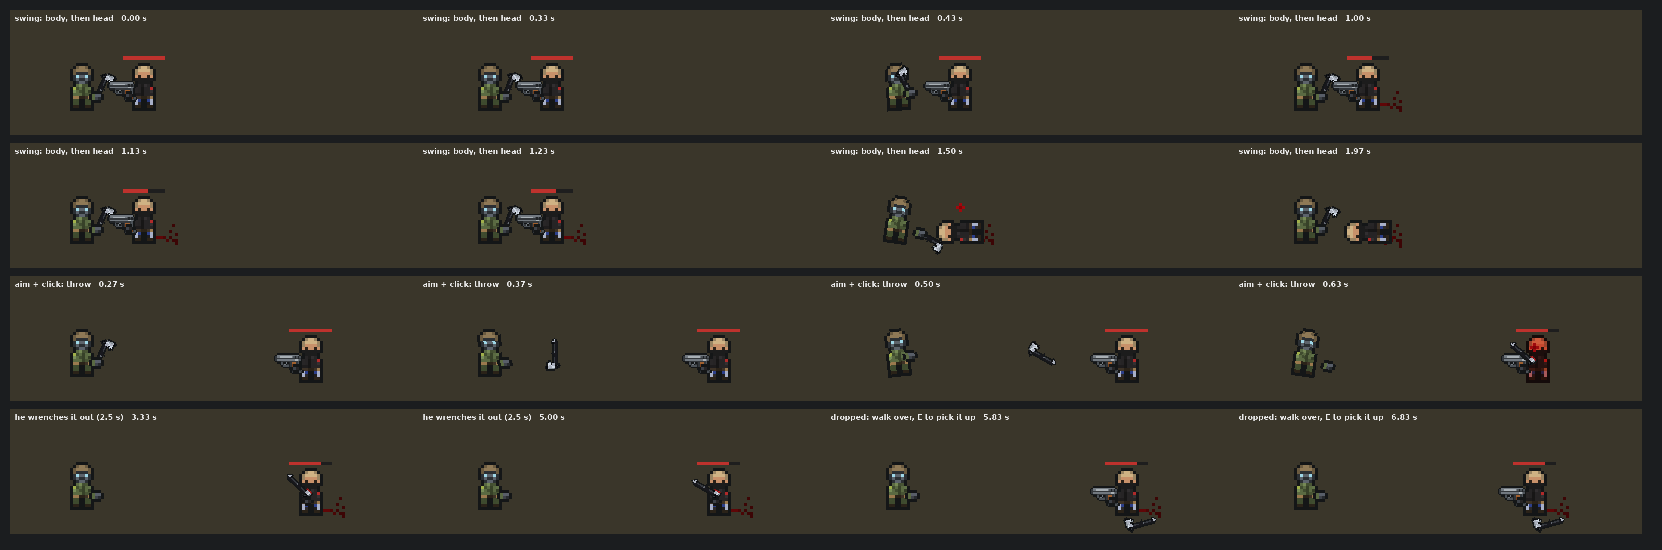
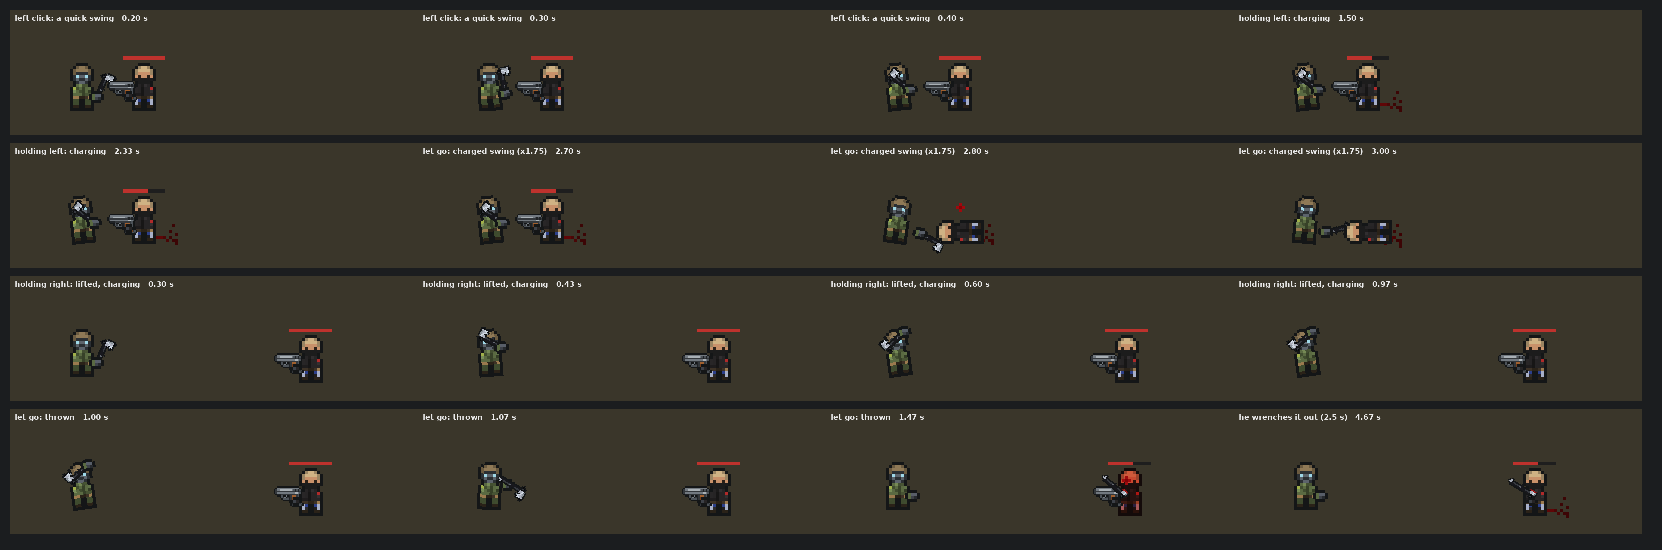
RT 7e: charged melee swings, throws lifted over the head and charged; melee aims at the body; no tunnelling throws
Claude-Session: https://claude.ai/code/session_017RM7tWVFFchFrbQYy4G9ho

diff --git a/Assets/Scripts/GameCore/Melee.cs b/Assets/Scripts/GameCore/Melee.cs
@@ -52,12 +52,22 @@ namespace GameCore
         public static readonly List<Lodged> InCover = new List<Lodged>();
         public static readonly List<Stuck> InBodies = new List<Stuck>();
         public static readonly List<Lying> OnFloor = new List<Lying>();
-        static readonly Dictionary<Player, (float at, Weapon w, float dx, float dy, float h)> Winding = new Dictionary<Player, (float, Weapon, float, float, float)>();
+        static readonly Dictionary<Player, (float at, Weapon w, float dx, float dy, float h, float power)> Winding = new Dictionary<Player, (float, Weapon, float, float, float, float)>();
+
+        // RT 7e (Yan: "left click swings it, holding left click charges the swing for higher damage and can be held indefinitely,
+        // right click 'aims' the throw and starts charging it, letting go throws it"; and a throw wind-up "like lifting it over the
+        // player's head"). Per combatant: when each button went down, when the last swing started (for its pose), when it threw.
+        public class Charge { public float SwingFrom = -1f, ThrowFrom = -1f, SwungAt = -99f, ThrewAt = -99f; }
+        static readonly Dictionary<ICombatant, Charge> Charges = new Dictionary<ICombatant, Charge>();
+        public static Charge ChargeOf(ICombatant u) { if (!Charges.TryGetValue(u, out var c)) Charges[u] = c = new Charge(); return c; }
+        public const float FullSwingCharge = 1f, MaxSwingBonus = 0.75f;   // held a second past the wind-up: x1.75 damage
+        public const float FullThrowCharge = 0.6f, MinThrowHold = 0.2f;  // a throw charged 0.6 s flies full speed and range
+        public const float ThrowWhip = 0.06f;                              // it leaves the hand this far into the whip forward
         static readonly Dictionary<ICombatant, float> NextSwing = new Dictionary<ICombatant, float>();
         // RT 7c: a swing lands at the chop, after the wind-up (HeldPoseMath.Chop), not on the click
-        static readonly List<(float at, ICombatant by, Weapon w, float dx, float dy, float h)> Pending = new List<(float, ICombatant, Weapon, float, float, float)>();
+        static readonly List<(float at, ICombatant by, Weapon w, float dx, float dy, float h, float mult)> Pending = new List<(float, ICombatant, Weapon, float, float, float, float)>();
         public static float HitDelay => HeldPoseMath.WindUp + HeldPoseMath.ChopTime;
-        public static void Reset() { Air.Clear(); InCover.Clear(); InBodies.Clear(); OnFloor.Clear(); Winding.Clear(); NextSwing.Clear(); Pending.Clear(); }
+        public static void Reset() { Air.Clear(); InCover.Clear(); InBodies.Clear(); OnFloor.Clear(); Winding.Clear(); NextSwing.Clear(); Pending.Clear(); Charges.Clear(); }
 
         public static float Now = -1f;                             // the harness sets it; the game uses Time.time
         static float T => Now >= 0f ? Now : Time.time;
@@ -67,32 +77,80 @@ namespace GameCore
 
         // ---------------- the player ----------------
 
-        /// <summary>Click with a melee weapon: aiming throws it, otherwise it swings. at = the crosshair (tile space).</summary>
+        /// <summary>RT 7e: the mouse buttons with a melee weapon, every frame. Left: press winds up, release swings (held past the
+        /// wind-up it charges, up to x1.75 damage). Right: press lifts it over your head and charges the throw, release throws it
+        /// (let go before MinThrowHold - or a two-handed weapon's wind-up - and you just lower it). at = the crosshair, tile space.</summary>
+        public static void PlayerInput(Player p, Weapon w, bool left, bool right, (float x, float y)? at)
+        {
+            var c = ChargeOf(p); float now = T;
+            if (Winding.ContainsKey(p)) return;                                           // mid-throw
+            if (left && c.SwingFrom < 0f && c.ThrowFrom < 0f && !(NextSwing.TryGetValue(p, out var ns) && now < ns)) c.SwingFrom = now;
+            if (!left && c.SwingFrom >= 0f)
+            {
+                float held = now - c.SwingFrom; c.SwingFrom = -1f;
+                float wind = Mathf.Min(held, HeldPoseMath.WindUp);
+                float charge = Mathf.Clamp01((held - HeldPoseMath.WindUp) / FullSwingCharge);
+                c.SwungAt = now - wind;                                                   // the pose carries on from where the wind-up is
+                if (at.HasValue) Release(p, w, at.Value, HeldPoseMath.WindUp - wind + HeldPoseMath.ChopTime, 1f + MaxSwingBonus * charge);
+            }
+            if (right && c.ThrowFrom < 0f && c.SwingFrom < 0f) c.ThrowFrom = now;
+            if (!right && c.ThrowFrom >= 0f)
+            {
+                float held = now - c.ThrowFrom; c.ThrowFrom = -1f;
+                if (held < Mathf.Max(MinThrowHold, For(w).WindUp) || !at.HasValue) return;  // not wound up: lowered, no throw
+                var (dx, dy, h) = Aim(p, at.Value);
+                if (dx == 0f && dy == 0f) return;
+                c.ThrewAt = now;
+                Winding[p] = (now + ThrowWhip, w, dx, dy, h, Mathf.Clamp01(held / FullThrowCharge));
+            }
+        }
+
+        static (float dx, float dy, float h) Aim(ICombatant by, (float x, float y) at)
+        {
+            var (px, py) = Ballistics.Pos(by);
+            var over = Rt.UnitUnder(at.x, at.y);
+            var (tx, ty) = over != null ? Ballistics.Pos(over) : at;                       // over a body: at its footprint, as guns aim
+            float dx = tx - px, dy = ty - py, len = Mathf.Sqrt(dx * dx + dy * dy);
+            if (len < 0.05f) return (0f, 0f, 0f);
+            return (dx / len, dy / len, over != null ? Ballistics.AimHeight(over, at.y) : ThrowHeight);
+        }
+
+        /// <summary>The swing leaves the wind-up: the hit lands `delay` s later (at the chop), `mult` x damage.</summary>
+        static void Release(Player p, Weapon w, (float x, float y) at, float delay, float mult)
+        {
+            var (dx, dy, h) = Aim(p, at);
+            if (dx == 0f && dy == 0f) return;
+            float now = T;
+            NextSwing[p] = now + delay + HeldPoseMath.Follow + HeldPoseMath.Recover;
+            var anim = CombatFx.Push("melee", p, null, w); anim.Now = true;                  // the whoosh
+            anim.ToX = p.X + Mathf.RoundToInt(dx * 2f); anim.ToY = p.Y + Mathf.RoundToInt(dy * 2f);
+            Pending.Add((now + delay, p, w, dx, dy, h, mult));
+            if (mult > 1.05f) GameLog.Write($"A charged swing (x{mult:0.00}).");
+        }
+
+        /// <summary>RT 7a (kept for tests and NPCs): click with a melee weapon - aiming throws it, otherwise it swings.</summary>
         public static void PlayerAttack(Player p, Weapon w, (float x, float y) at, bool aiming)
         {
             var st = For(w);
             float now = T;
             if (Winding.ContainsKey(p) || NextSwing.TryGetValue(p, out var t) && now < t) return;
-            var (px, py) = Ballistics.Pos(p);
-            float dx = at.x - px, dy = at.y - py, len = Mathf.Sqrt(dx * dx + dy * dy);
-            if (len < 0.05f) return;
-            dx /= len; dy /= len;
-            var over = Rt.UnitUnder(at.x, at.y);
-            float h = over != null ? Ballistics.AimHeight(over, at.y) : ThrowHeight;
+            var (dx, dy, h) = Aim(p, at);
+            if (dx == 0f && dy == 0f) return;
             if (aiming)
             {
-                if (st.WindUp > 0f) { Winding[p] = (now + st.WindUp, w, dx, dy, h); GameLog.Write($"You wind up the {w.Name}..."); }
+                if (st.WindUp > 0f) { Winding[p] = (now + st.WindUp, w, dx, dy, h, 1f); GameLog.Write($"You wind up the {w.Name}..."); }
                 else Throw(p, w, dx, dy, h);
                 return;
             }
             NextSwing[p] = now + Mathf.Max(st.Swing, HeldPoseMath.SwingLength);
             var anim = CombatFx.Push("melee", p, null, w); anim.Now = true;                      // the wind-up starts now
             anim.ToX = p.X + Mathf.RoundToInt(dx * 2f); anim.ToY = p.Y + Mathf.RoundToInt(dy * 2f);
-            Pending.Add((now + HitDelay, p, w, dx, dy, h));
+            Pending.Add((now + HitDelay, p, w, dx, dy, h, 1f));
+            ChargeOf(p).SwungAt = now;
         }
 
         /// <summary>One swing: the nearest enemy within reach and inside the arc in front takes it.</summary>
-        public static ICombatant Swing(ICombatant by, Weapon w, float dx, float dy, float h)
+        public static ICombatant Swing(ICombatant by, Weapon w, float dx, float dy, float h, float mult = 1f)
         {
             var st = For(w);
             var (px, py) = Ballistics.Pos(by);
@@ -114,15 +172,15 @@ namespace GameCore
             var hit = Ballistics.Trace(by, px, py, ox / ol, oy / ol, st.Reach + 0.3f, h, new[] { best });
             if (hit.Unit == null) { hit.Unit = best; hit.Part = "Torso"; }
             fx.Hit = true;
-            Strike(by, w, hit.Unit, hit.Part, hit.Side, fx);
+            Strike(by, w, hit.Unit, hit.Part, hit.Side, fx, mult);
             return best;
         }
 
         /// <summary>Damage from a swing or a throw that lands: the old armor math, limb health, bleeding or a concussion.</summary>
-        public static void Strike(ICombatant by, Weapon w, ICombatant target, string part, float side, FxEvent fx = null)
+        public static void Strike(ICombatant by, Weapon w, ICombatant target, string part, float side, FxEvent fx = null, float mult = 1f)
         {
             var st = For(w);
-            float raw = (w.BaseDamage + (w.Upgrades.Contains("Reinforced") ? 30 : 0)) * Ballistics.PartMult(part ?? "Torso");
+            float raw = (w.BaseDamage + (w.Upgrades.Contains("Reinforced") ? 30 : 0)) * Ballistics.PartMult(part ?? "Torso") * mult;
             if (target is Mutant tm0 && !tm0.IsAggroed) raw *= 1.3f;                      // they never saw it coming
             if (ItemCondition.IsDamaged(w.Condition)) raw *= 0.75f;
             if (by is Player) raw *= CombatRules.PlayerDamage;
@@ -146,12 +204,13 @@ namespace GameCore
         }
 
         /// <summary>Let go of the weapon: it leaves your hands and flies.</summary>
-        public static void Throw(Player p, Weapon w, float dx, float dy, float h)
+        public static void Throw(Player p, Weapon w, float dx, float dy, float h, float power = 1f)
         {
             var st = For(w);
             var (px, py) = Ballistics.Pos(p);
-            Air.Add(new Flying { W = w, Item = ItemOf(w), By = p, X = px, Y = py, Dx = dx, Dy = dy, H = h, Left = st.ThrowRange,
-                Speed = st.ThrowSpeed, Blade = st.Blade, Deg = Mathf.Atan2(-dy, dx) * Mathf.Rad2Deg, Spin = dx >= 0f ? -900f : 900f });
+            float k = 0.6f + 0.4f * Mathf.Clamp01(power);                                        // RT 7e: a half-charged throw is slower and shorter
+            Air.Add(new Flying { W = w, Item = ItemOf(w), By = p, X = px, Y = py, Dx = dx, Dy = dy, H = h, Left = st.ThrowRange * k,
+                Speed = st.ThrowSpeed * k, Blade = st.Blade, Deg = Mathf.Atan2(-dy, dx) * Mathf.Rad2Deg, Spin = dx >= 0f ? -900f : 900f });
             if (p.EquippedWeapon == w) { p.EquippedWeapon = null; p.EquippedWeaponCategory = null; p.EquippedWeaponKey = null; }
             GameLog.Write($"You throw the {w.Name}.");
             Sfx.Play("swing", TacticalGridView.GridToWorld(p.X, p.Y));
@@ -177,16 +236,16 @@ namespace GameCore
                 var q = Pending[i];
                 if (now < q.at) continue;
                 Pending.RemoveAt(i);
-                if (q.by.IsAlive() && (!(q.by is Player pp) || pp.EquippedWeapon == q.w)) Swing(q.by, q.w, q.dx, q.dy, q.h);
+                if (q.by.IsAlive() && (!(q.by is Player pp) || pp.EquippedWeapon == q.w)) Swing(q.by, q.w, q.dx, q.dy, q.h, q.mult);
             }
             foreach (var kv in Winding.ToList())
-                if (now >= kv.Value.at) { Winding.Remove(kv.Key); if (kv.Key.EquippedWeapon == kv.Value.w) Throw(kv.Key, kv.Value.w, kv.Value.dx, kv.Value.dy, kv.Value.h); }
+                if (now >= kv.Value.at) { Winding.Remove(kv.Key); if (kv.Key.EquippedWeapon == kv.Value.w) Throw(kv.Key, kv.Value.w, kv.Value.dx, kv.Value.dy, kv.Value.h, kv.Value.power); }
 
             for (int i = Air.Count - 1; i >= 0; i--)
             {
                 var f = Air[i];
                 float step = Mathf.Min(f.Speed * dt, f.Left);
-                var hit = Ballistics.Trace(f.By, f.X, f.Y, f.Dx, f.Dy, step, f.H, Gunplay.Bodies().Where(u => u != f.By));
+                var hit = Ballistics.Trace(f.By, f.X - f.Dx * 0.1f, f.Y - f.Dy * 0.1f, f.Dx, f.Dy, step + 0.1f, f.H, Gunplay.Bodies().Where(u => u != f.By));   // from a bit back: Trace skips bodies under 0.05 from the start
                 f.Deg += f.Spin * dt;
                 if (hit.Unit != null)
                 {

diff --git a/Assets/Scripts/GameCore/HeldWeapon.cs b/Assets/Scripts/GameCore/HeldWeapon.cs
@@ -30,6 +30,8 @@ namespace GameCore
         public bool MagShown;               // false while the old one is on the floor and the new one still in the pouch
         public bool MagDropped;             // the old magazine has left the gun (HeldWeaponView throws it once)
         public float CylDX, CylDY;          // RT 6l: a revolver's cylinder swung out on its crane (character px from its seat)
+        public float Lean;                  // RT 7e: the unit's tilt from a melee swing or throw (degrees, + = counter-clockwise)
+        public bool Thrown;                 // RT 7e: it has left the hand (the whip forward, after release)
         public float BreakDeg;              // RT 6i: how far a break-action's barrels hang open (degrees)
         public bool Left, HasSupport;
     }
@@ -165,20 +167,40 @@ namespace GameCore
             return (75f * (1f - r), 3f * (1f - r), 1f - r, -8f * (1f - r));
         }
 
-        static HeldFrame MeleeFrame(float angle, float sinceSwing)
+        /// <summary>RT 7e: lifting it over your head to throw (held `t` s): the head goes back and down behind you, the fist up by
+        /// your head; charged, it trembles. Then the whip forward over `w` s after release.</summary>
+        public const float LiftTime = 0.25f, WhipTime = 0.12f;
+        public static (float off, float hx, float hy, float lean) Lift(float t)
+        {
+            float Sm(float x) { x = Mathf.Clamp01(x); return x * x * (3f - 2f * x); }
+            float k = Sm(t / LiftTime), shake = t > LiftTime ? 2.5f * Mathf.Sin(t * 33f) : 0f;
+            return (-150f * k + shake, -2f * k, -10f * k, 8f * k);
+        }
+        public static (float off, float hx, float hy, float lean) Whip(float t)
+        {
+            float c = Mathf.Clamp01(t / WhipTime);
+            return (-150f + 220f * c, -2f + 5f * c, -10f + 10f * c, 8f - 18f * c);
+        }
+
+        static HeldFrame MeleeFrame(float angle, float sinceSwing, float swingHold = -1f, float throwHold = -1f, float sinceThrow = 99f)
         {
             bool left = Mathf.Cos(angle * Mathf.Deg2Rad) < -0.0001f;
             float side = left ? -1f : 1f;
-            var (off, hx, hy, _) = Chop(sinceSwing);
+            var (off, hx, hy, lean) = throwHold >= 0f ? Lift(throwHold)
+                : sinceThrow < WhipTime ? Whip(sinceThrow)
+                : swingHold >= 0f ? Chop(Mathf.Min(swingHold, WindUp))
+                : Chop(sinceSwing);
+            if (throwHold < 0f && sinceThrow >= WhipTime && swingHold > WindUp) off += 3f * Mathf.Sin(swingHold * 30f);   // a charged swing trembles
             float right = ChestX + 3f;                                                   // the fist beside the body
             float gx = (left ? 13f - right : right) + side * Mathf.Round(hx);
-            float gy = Mathf.Min(Mathf.Round(ChestY + 0.5f + hy), WaistTopRow);
+            float gy = Mathf.Min(Mathf.Round(ChestY + 0.5f + hy), WaistTopRow);   // (a lifted fist goes up past the head: no lower limit)
             float cx = left ? 1f : 2f;
             return new HeldFrame
             {
                 Left = left, HasSupport = false, MagShown = false,
                 GunDeg = 90f - side * (RestTilt + off),                                   // upright, edge forward (a flipped sprite mirrors it)
                 GunX = gx + cx, GunY = gy + 1.5f, GripX = gx + cx, GripY = gy + 1.5f,
+                Lean = side * lean, Thrown = throwHold < 0f && sinceThrow >= 0f && sinceThrow < WhipTime && sinceThrow >= 0.5f * WhipTime,
             };
         }
 
@@ -186,9 +208,9 @@ namespace GameCore
         /// aim, then recoil (k: 0..1 left of the last shot's kick), swing, and the reload or jam-clearing pose at progress r.
         /// g = WeaponArt grip/support/muzzle points.</summary>
         public static HeldFrame Frame(string cat, float[] g, float angle, float k, float climb, float kick, float sinceSwing,
-            float r, string style, int trips, float[] mag = null)
+            float r, string style, int trips, float[] mag = null, float swingHold = -1f, float throwHold = -1f, float sinceThrow = 99f)
         {
-            if (cat == "melee") return MeleeFrame(angle, sinceSwing);                  // RT 7c
+            if (cat == "melee") return MeleeFrame(angle, sinceSwing, swingHold, throwHold, sinceThrow);   // RT 7c, 7e
             bool left = Mathf.Cos(angle * Mathf.Deg2Rad) < -0.0001f;
             float side = left ? -1f : 1f;
             var (swingDeg, lunge) = Swing(sinceSwing);
@@ -512,7 +534,9 @@ namespace GameCore
         public void Twitch() { _shotAt = Time.time; _kick = 0.5f; _climb = -4f; _recover = 0.1f; }   // jammed: click, nothing
         public void Swing() => _swingAt = Time.time;
         /// <summary>RT 7c: the body's lean while swinging a melee weapon (degrees, for the unit's tilt): back on the wind-up, into the chop.</summary>
-        public float Lean => Mathf.Cos(_angle * Mathf.Deg2Rad) < -0.0001f ? -HeldPoseMath.Chop(Time.time - _swingAt).lean : HeldPoseMath.Chop(Time.time - _swingAt).lean;
+        public float Lean { get; private set; }
+        /// <summary>RT 7e: the player's melee charge (Melee.ChargeOf) - drives the wind-up, the lift and the whip; null for others.</summary>
+        public Melee.Charge MeleeCharge;
         /// <summary>RT 6f: clearing a jam (tap the magazine, rack the action) over `seconds`.</summary>
         public void StartClear(float seconds) { _reloadAt = Time.time; _reloadTime = seconds; _reloadStyle = "jam"; _reloadTrips = 1; }
         public void StartReload(WeaponFeel f, int capacity, float seconds = 0f, int rounds = 0)
@@ -581,9 +605,12 @@ namespace GameCore
             _g = g;
 
             // animation on top of the aim: recoil (back + muzzle climb), melee swing, reload tilt, clearing a jam
-            var f = HeldPoseMath.Frame(cat, g, _angle, HeldPoseMath.Recoil(now - _shotAt, _recover), _climb, _kick, now - _swingAt,
+            var mc = cat == "melee" ? MeleeCharge : null;
+            var f = HeldPoseMath.Frame(cat, g, _angle, HeldPoseMath.Recoil(now - _shotAt, _recover), _climb, _kick, mc != null ? now - mc.SwungAt : now - _swingAt,
                 _reloadTime > 0f ? (now - _reloadAt) / _reloadTime : 1f, _reloadStyle, _reloadTrips,
-                key != null && WeaponArt.Mag(cat, key).mag != null && WeaponMags.Points.TryGetValue(key, out var pts) ? pts : null);
+                key != null && WeaponArt.Mag(cat, key).mag != null && WeaponMags.Points.TryGetValue(key, out var pts) ? pts : null,
+                mc != null && mc.SwingFrom >= 0f ? now - mc.SwingFrom : -1f, mc != null && mc.ThrowFrom >= 0f ? now - mc.ThrowFrom : -1f, mc != null ? now - mc.ThrewAt : 99f);
+            Lean = f.Lean;
 
             var (body, mag) = WeaponArt.Mag(cat, key);
             _gun.sprite = mag != null && body != null ? body : sprite;

diff --git a/Tools/compile_check/test/Program.cs b/Tools/compile_check/test/Program.cs
@@ -776,17 +776,22 @@ static class Program {
       if (clip == "swing") Rt.SetOffset(foe, 0.3f, 0f);                                    // a step back, inside the hatchet's reach (1.35)
       int maxHp = foe.Hp; float swingAt = -99f, hitAt = -99f; var blood = new System.Collections.Generic.List<string>();
       sb.Append($"{(clip == "swing" ? "" : ",")}\"{clip}\":{{\"hp\":{maxHp},\"frames\":[");
-      int n = clip == "swing" ? 60 : 210;
+      int n = clip == "swing" ? 112 : 230;
       for (int i = 0; i < n; i++) {
         float t = i / 30f; Melee.Now = t;
         int hp0 = foe.Hp;
-        if (clip == "swing" && (i == 9 || i == 36)) { swingAt = t; var (fpx, fpy) = Ballistics.Pos(foe); Melee.PlayerAttack(p, hw, (fpx, fpy + 0.44f - (i == 9 ? 0.45f : 0.8f) * Ballistics.BodyTiles), false); }   // body, then head; it lands at the chop
-        if (clip == "throw" && i == 9) { swingAt = t; Melee.Throw(p, hw, 1f, 0f, 0.45f); }
+        // RT 7e: the mouse as the game reads it - a left tap (body), then the left held 1.5 s (a full charge, body);
+        // the right held 0.7 s (lifted over the head, charged), let go: thrown
+        { var (fpx, fpy) = Ballistics.Pos(foe); var at = (fpx, fpy + 0.44f - 0.45f * Ballistics.BodyTiles);   // the crosshair on his chest
+          bool left = clip == "swing" && (i >= 6 && i < 8 || i >= 36 && i < 81), right = clip == "throw" && i >= 9 && i < 30;
+          if (p.EquippedWeapon != null) Melee.PlayerInput(p, hw, left, right, at); }
         Melee.Tick(1f / 30f);
         if (foe.Hp < hp0) { hitAt = t; blood.Add(FormattableString.Invariant($"[{t},{Ballistics.Pos(foe).x},{Ballistics.Pos(foe).y}]")); }
         // you: the hatchet in hand (swing arc) or empty hands once it's thrown
-        var f = HeldPoseMath.Frame("melee", g, 0f, 0f, 0f, 0f, t - swingAt, 1f, "none", 1);
-        float lean = HeldPoseMath.Chop(t - swingAt).lean;
+        var mc = Melee.ChargeOf(p);
+        var f = HeldPoseMath.Frame("melee", g, 0f, 0f, 0f, 0f, t - mc.SwungAt, 1f, "none", 1, null,
+          mc.SwingFrom >= 0f ? t - mc.SwingFrom : -1f, mc.ThrowFrom >= 0f ? t - mc.ThrowFrom : -1f, t - mc.ThrewAt);
+        float lean = f.Lean;
         bool inHand = p.EquippedWeapon != null;
         // the hatchet out of your hands
         string item = "null";
@@ -945,6 +950,24 @@ static class Program {
       if (lying != null) { p.AddItem(lying.Item); TerrainMap.GroundItems.Remove(lying); Melee.EquipIfEmptyHanded(p, lying.Item); }
       Check(p.EquippedWeapon?.Db?.Name == "Tactical Hatchet", "RT 7a: picked up with empty hands, it's back in them");
       Check(!EncounterGeneration.Unique.Contains("Tactical Hatchet") == false && WeaponArt.HasGrip("TacticalHatchet"), "RT 7a: one of a kind, with its own grip points");
+      // RT 7e: left held then let go swings (held past the wind-up: more damage); right held lifts and charges the throw
+      int Swung(float hold) {
+        Melee.Reset(); EncounterState.Enemies.Clear(); p.EquipWeapon("melee", "TacticalHatchet"); var w2 = p.EquippedWeapon;
+        var foe = new HumanEnemy("Foe", px + 1, py, "Raiders", "Rookie", null, null) { IsAggroed = true }; EncounterState.Enemies.Add(foe);
+        foe.Hp = 100000; int hp = foe.Hp; var at = (Ballistics.Pos(foe).x, Ballistics.Pos(foe).y);
+        Melee.Now = 0f; Melee.PlayerInput(p, w2, true, false, at); Melee.Now = hold; Melee.PlayerInput(p, w2, false, false, at);
+        for (float s = hold; s < hold + 1f; s += 0.02f) { Melee.Now = s; Melee.Tick(0.02f); }
+        return hp - foe.Hp; }
+      int tap = Swung(0.05f), full = Swung(5f);
+      Check(tap > 0 && full > tap * 1.5f, $"RT 7e: a tap swings ({tap}), a held swing hits harder ({full})");
+      float Thrown(float hold) {
+        Melee.Reset(); EncounterState.Enemies.Clear(); p.EquipWeapon("melee", "TacticalHatchet"); var w2 = p.EquippedWeapon;
+        var at = (Ballistics.Pos(p).x + 5f, Ballistics.Pos(p).y);
+        Melee.Now = 0f; Melee.PlayerInput(p, w2, false, true, at); Melee.Now = hold; Melee.PlayerInput(p, w2, false, false, at);
+        Melee.Now = hold + 0.1f; Melee.Tick(0.02f);
+        return Melee.Air.FirstOrDefault()?.Left ?? -1f; }
+      float quick = Thrown(0.1f), half = Thrown(0.3f), strong = Thrown(1f);
+      Check(quick < 0f && half > 0f && strong > half, $"RT 7e: a flick of the right button lowers it (no throw), a longer hold throws farther ({half:0.0} < {strong:0.0} tiles)");
       Melee.Reset(); Melee.Now = -1f; EncounterState.Enemies.Clear(); foreach (var e in keepE) EncounterState.Enemies.Add(e); p.EquippedWeapon = keepW; CombatFx.Pending.Clear(); }
     // RT batch 4: a human enemy fights in real time - shots spread over time in bursts, reloads, walks at a pace, gets pinned
     {

diff --git a/Tools/render/melee_scene.py b/Tools/render/melee_scene.py
@@ -116,13 +116,15 @@ def main(src, out):
                     k = min(2, int((i / 30 - bt) / 0.2 * 3)); x, y = P(bx2, by2 - 0.25)
                     c.alpha_composite(puffs[k].resize((5 * S, 5 * S), Image.NEAREST), (round(x - 2.5 * S), round(y - 2.5 * S)))
             dr = ImageDraw.Draw(c)
-            label = {"swing": "swing: body, then head", "throw": "aim + click: throw"}[clip]
+            # RT 7e: what the mouse is doing (the harness's script: left tap at 0.2 s, left held 1.2-2.7 s; right held 0.3-1.0 s)
+            if clip == "swing": label = "left click: a quick swing" if i < 36 else "holding left: charging" if i < 81 else "let go: charged swing (x1.75)"
+            else: label = "holding right: lifted, charging" if 9 <= i < 30 else "let go: thrown" if i < 50 else "it sticks in him"
             if clip == "throw" and busy: label = "he wrenches it out (2.5 s)"
             if clip == "throw" and item and item[0] == "floor": label = "dropped: walk over, E to pick it up"
             dr.text((10, 8), f"{label}   {i / 30:4.2f} s", font=font, fill=(235, 235, 235))
             frames.append(c)
         frames[0].save(os.path.join(out, f"melee_{clip}.gif"), save_all=True, append_images=frames[1:], duration=33, loop=0, disposal=2)
-        picks = [frames[k] for k in ([0, 10, 13, 30, 34, 37, 45, 59] if clip == "swing" else [8, 11, 15, 19, 100, 150, 175, 205])]
+        picks = [frames[k] for k in ([6, 9, 12, 45, 70, 81, 84, 90] if clip == "swing" else [9, 13, 18, 29, 30, 32, 44, 140])]
         sheet_rows.append(picks)
     w, h = sheet_rows[0][0].size; sw, sh = w // 2, h // 2
     sheet = Image.new("RGBA", (4 * sw + 30, 4 * sh + 50), (27, 29, 31, 255))

diff --git a/Assets/Scripts/GameCore/Rt.cs b/Assets/Scripts/GameCore/Rt.cs
@@ -134,11 +134,17 @@ namespace GameCore
             if (k.rKey.wasPressedThisFrame && w != null && aim.ReloadUntil < 0f && UsingId == null && !CombatRules.IsMelee(w)
                 && (w.IsJammed || w.CurrentMagazine < w.MagCapacity))
                 StartReload(p, w, aim, Time.time);
+            if (w != null && CombatRules.IsMelee(w))                                         // RT 7e: hold to charge a swing; right mouse to throw
+            {
+                if (m != null && UsingId == null) Melee.PlayerInput(p, w, m.leftButton.isPressed, m.rightButton.isPressed, mw);
+                goto camera;
+            }
             bool trigger = m != null && (hd.Auto ? m.leftButton.isPressed : m.leftButton.wasPressedThisFrame);
             if (trigger && aim.Loading > 0) StopLoading(p, w, aim);   // RT 6h: a tube or lever fires what's in; a revolver closes first
             if (trigger && UsingId != null) { UsingId = null; GameLog.Write("You stop to shoot."); }
             if (trigger && w != null && mw.HasValue && aim.ReloadUntil < 0f && Time.time >= aim.NextShot) PlayerFire(p, w, hd, aim, mw.Value);
 
+            camera:
             // ---- camera looks toward the mouse; further when aiming, further still with a long gun ----
             if (mw.HasValue)
             {

diff --git a/Assets/Scripts/GameCore/TacticalGridView.cs b/Assets/Scripts/GameCore/TacticalGridView.cs
@@ -200,6 +200,7 @@ namespace GameCore
             bool downNow = Body.Down(player);   // RT batch 2: down - lying on your side, gun dropped to the ground beside you
             float tilt = downNow ? 90f : Rt.Diving ? (Rt.DiveRight ? -70f : 70f) : Rt.Low(player) ? (Rt.DiveRight ? -90f : 90f) : Held(_playerMarker).Lean;   // RT batch 3: into the dive, sprawled after it; RT 7c: leaning into a swing
             _playerMarker.transform.localRotation = Quaternion.Euler(0f, 0f, tilt);
+            Held(_playerMarker).MeleeCharge = Melee.ChargeOf(player);                     // RT 7e: the player's wind-ups drive the pose
             Held(_playerMarker).Show(player.EquippedWeapon, player.EquippedArmor, _playerMarker.transform.position, AimPoint(player, _playerMarker), playerUp && !downNow, Away(_playerMarker));
             // Batch 123: while someone on the map talks to you, the camera frames you both (above the dialog panel) and a
             // chevron bobs over the speaker

diff --git a/ArtSource/WORK_LOG.md b/ArtSource/WORK_LOG.md
@@ -3436,3 +3436,21 @@ Yan: "when thrown the weapon sprite kind just glues itself to the enemy instead 
 also writes `weapon_TacticalHatchet_stuck.png`: the blade from row 9 down is buried (cut off) and a line of blood marks where it goes
 in; `Melee.StuckPose` puts that cut line on the chest, the edge in and the handle out up and back toward the thrower (140 degrees,
 mirrored for a throw from the right); pulling it out wrenches it back and forth. `Melee.Stats.StuckX/Y` = the cut line's point.
+
+
+### RT 7e - melee controls: charged swings, throws lifted over the head (2026-10-20)
+
+Yan: "the throwing animation needs a better wind-up ... like lifting it over the players head before throwing" and "left click
+swings it, holding left click charges the swing for higher damage and can be held indefinetly, right click ''aims'' the throw and
+starts charging it, letting go throws it."
+- `Melee.PlayerInput` reads both mouse buttons every frame (`Rt.PlayerFire` sends a melee weapon there). LMB press winds up, release
+  swings; held past the wind-up it charges for 1 s more to x1.75 damage and can be held forever (the pose trembles). RMB press lifts it
+  over the head (`HeldPoseMath.Lift`: fist above the head, the head hanging back behind it, the body leaning back), release whips it
+  forward (`Whip`, 0.12 s; it leaves the hand halfway) and throws. Power = held / 0.6 s: a half-charged throw flies at 60-100% of the
+  speed and range. Shorter than 0.2 s (or a two-handed wind-up) lowers it without throwing. `Melee.Charge` per unit drives the pose
+  (`HeldWeaponView.MeleeCharge`).
+- Bugs fixed on the way: melee aimed at the crosshair point instead of the body under it, so a throw at a chest flew along the wrong
+  line (now `Melee.Aim` aims at the footprint like guns do); a thrown blade could pass through a body that sat exactly on a frame
+  boundary (`Ballistics.Trace` skips bodies under 0.05 from the start - the flight now traces from a step back).
+- Checks: a tap vs a held swing (damage x1.5+), a flick of RMB throws nothing, a longer hold throws farther. Renders:
+  `maps/renders/melee/` (`melee_swing.gif` tap then charged, `melee_throw.gif`, `melee_throw_closeup.png`).

diff --git a/ACTION_DESIGN.md b/ACTION_DESIGN.md
@@ -74,6 +74,9 @@ armor; AP/HP ammo plug in here). Weight, wear, jams (d100 as now, 1% +2% per wea
 ## Melee (Yan, 2026-10-20)
 
 Melee's place: ambushes round corners, unseen camp massacres, parrying mutants - not open charges into gunfire.
+- **Controls (Yan, RT 7e):** with a melee weapon in hand, LMB swings; hold LMB to charge the swing (held as long as you like,
+  up to x1.75 damage a second past the wind-up). RMB lifts it over your head and charges the throw; let go to throw it (full
+  speed and range at 0.6 s held; let go before 0.2 s - or a two-handed weapon's 1 s wind-up - and you just lower it).
 - **Every melee weapon can be thrown.** Smaller = faster swings and faster, longer throws. Thrown weapons fly (travel time,
   spin, max range) and hit through the same body-part rules as bullets.
 - **Bladed weapons stick** where they hit: in wood, tin or cloth cover (pull it out with E), or in a body. A living enemy or
